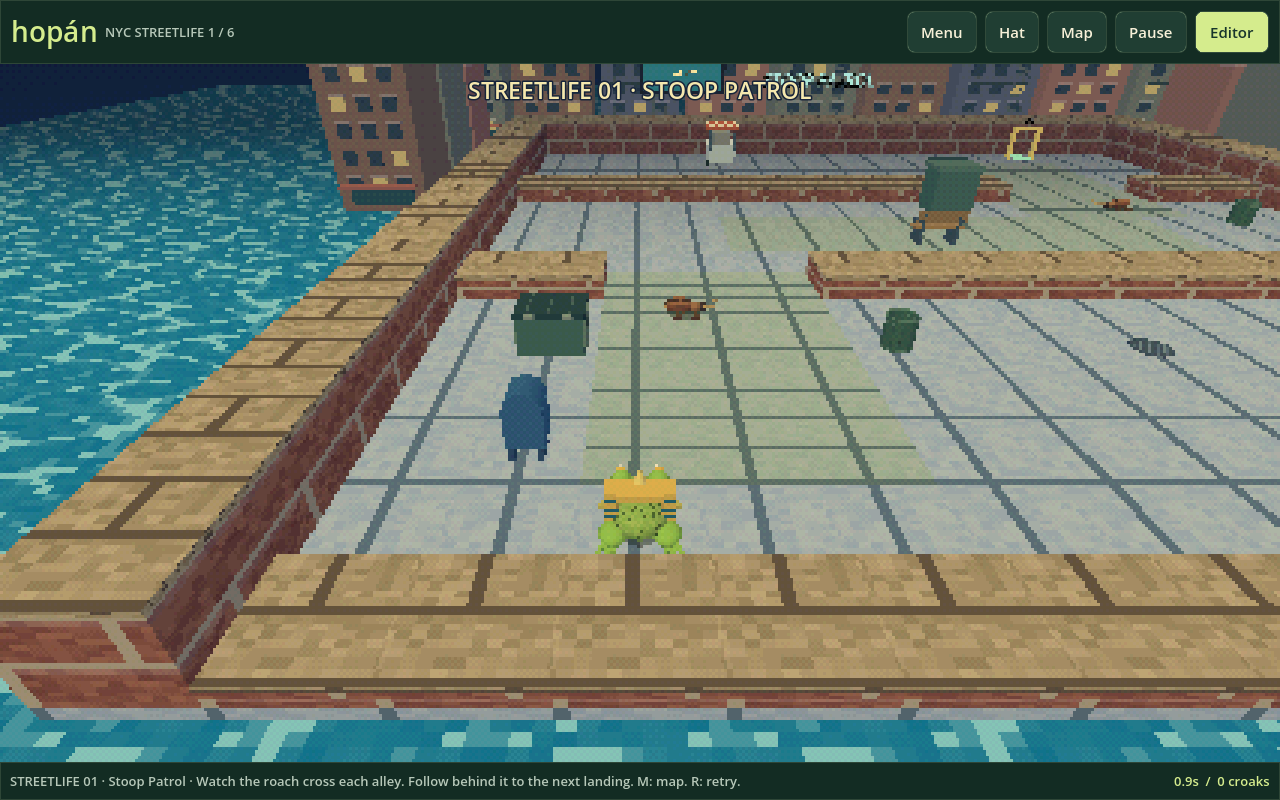
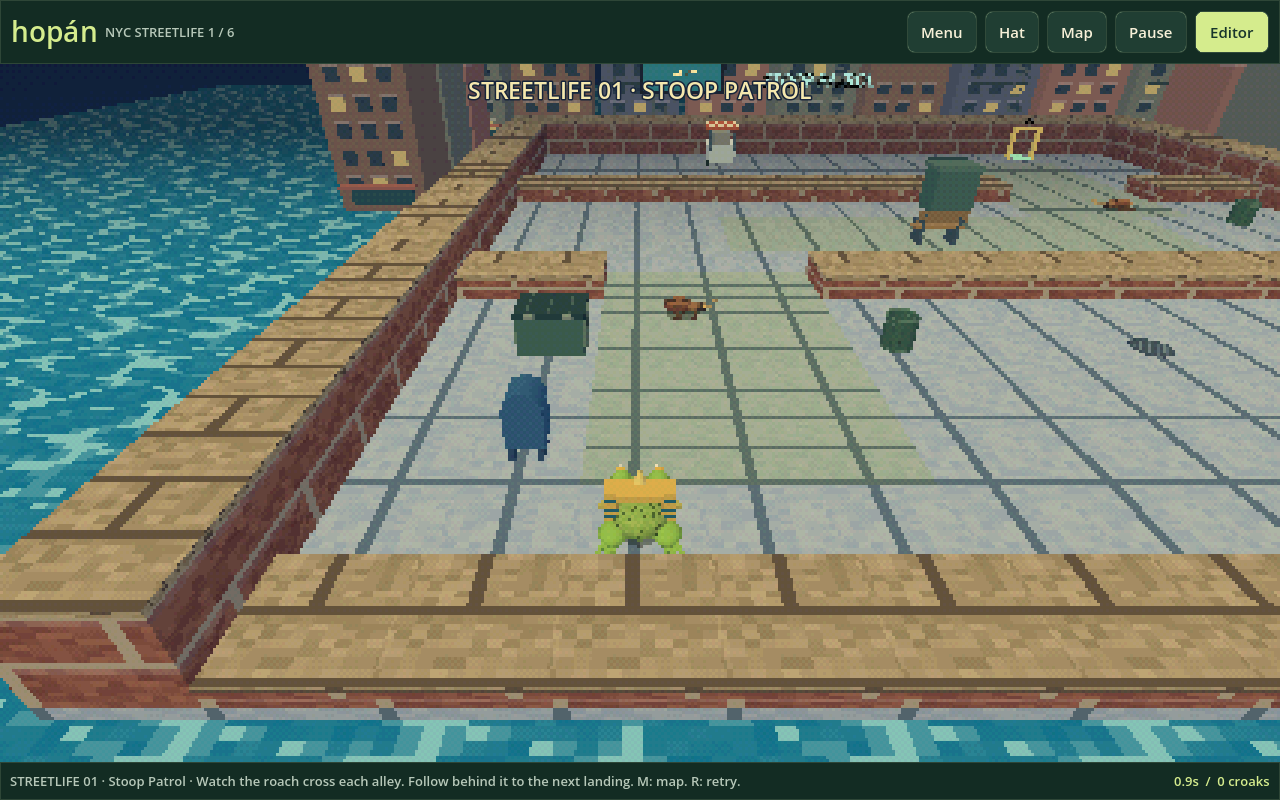
Record unified Hopan menu and save verification

Changed region(s): [[0.0, 0.0938, 0.3125, 0.6875], [0.0, 0.8438, 0.5312, 0.9688], [0.5312, 0.875, 1.0, 0.9688]]

diff --git a/docs/HOPAN_UNIFIED_LEVELS.md b/docs/HOPAN_UNIFIED_LEVELS.md
@@ -16,4 +16,6 @@ The current NYC source's normal native suite passes 217 checks. The NYC library 
 
 The integrated browser checks cover the restored frog screen at desktop, landscape and portrait sizes, all eight collection entries, opening an older stage, returning to collections, NYC gameplay and editor saving. Browser checks use Chromium WebGL and touch emulation; physical phone and controller testing remain open. [Main screen](publication-menu-sync/menu-desktop.png) · [Baby Mode collection](publication-menu-sync/baby-collection.png).
 
-Both Godot Web exports use the existing streaming-gzip loader and run under the same Site origin. The older runtime is hosted under `/classic/` as an implementation detail; the player chooses its levels directly from the collection menu. The existing RiverSim route and other hosted content are preserved by the packaging check. Source commits and publication receipt are recorded after the release is verified.
+Both Godot Web exports use the existing streaming-gzip loader and run under the same Site origin. The older runtime is hosted under `/classic/` as an implementation detail; the player chooses its levels directly from the collection menu. The existing RiverSim route and other hosted content are preserved by the packaging check. Published at https://hopan.fiiendward.chatgpt.site as Site version 86. The modern runtime is source `87f262253906863dcc79467bf8dc7de34e3af792`; the older runtime uses source `cf1a152e440b1adf27be7e4b60b47fa4647dfca7`. The older source tree matches the locally exported tree exactly. Site source `b00ce8fa2bdad2ccc96d96d83ea3cf6a763d2331` and the archive match the successful native publication. Audience stays public; 15 unrelated static files and the hosting manifest were preserved. [Publication receipt](publication-menu-sync/publication.json) and [preservation hashes](publication-menu-sync/preservation.json).
+
+Current focused checks pass: 217 NYC native, 25 NYC library, 22 older save safety, 14 older mirror and 18 older collection checks. Browser runs pass 19 menu, seven save-roundtrip, four NYC release, three older release, two older immediate-save and one older keyboard check. [Menu browser](publication-menu-sync/menu-browser.json) · [save round-trip](publication-menu-sync/library-roundtrip.json) · [older immediate-save log](publication-menu-sync/older-browser-save.log). The normal release screens were inspected; native deployment succeeded. Direct live HTTP from this environment was blocked on previous attempts, so these results do not assert a live-site browser visit.
